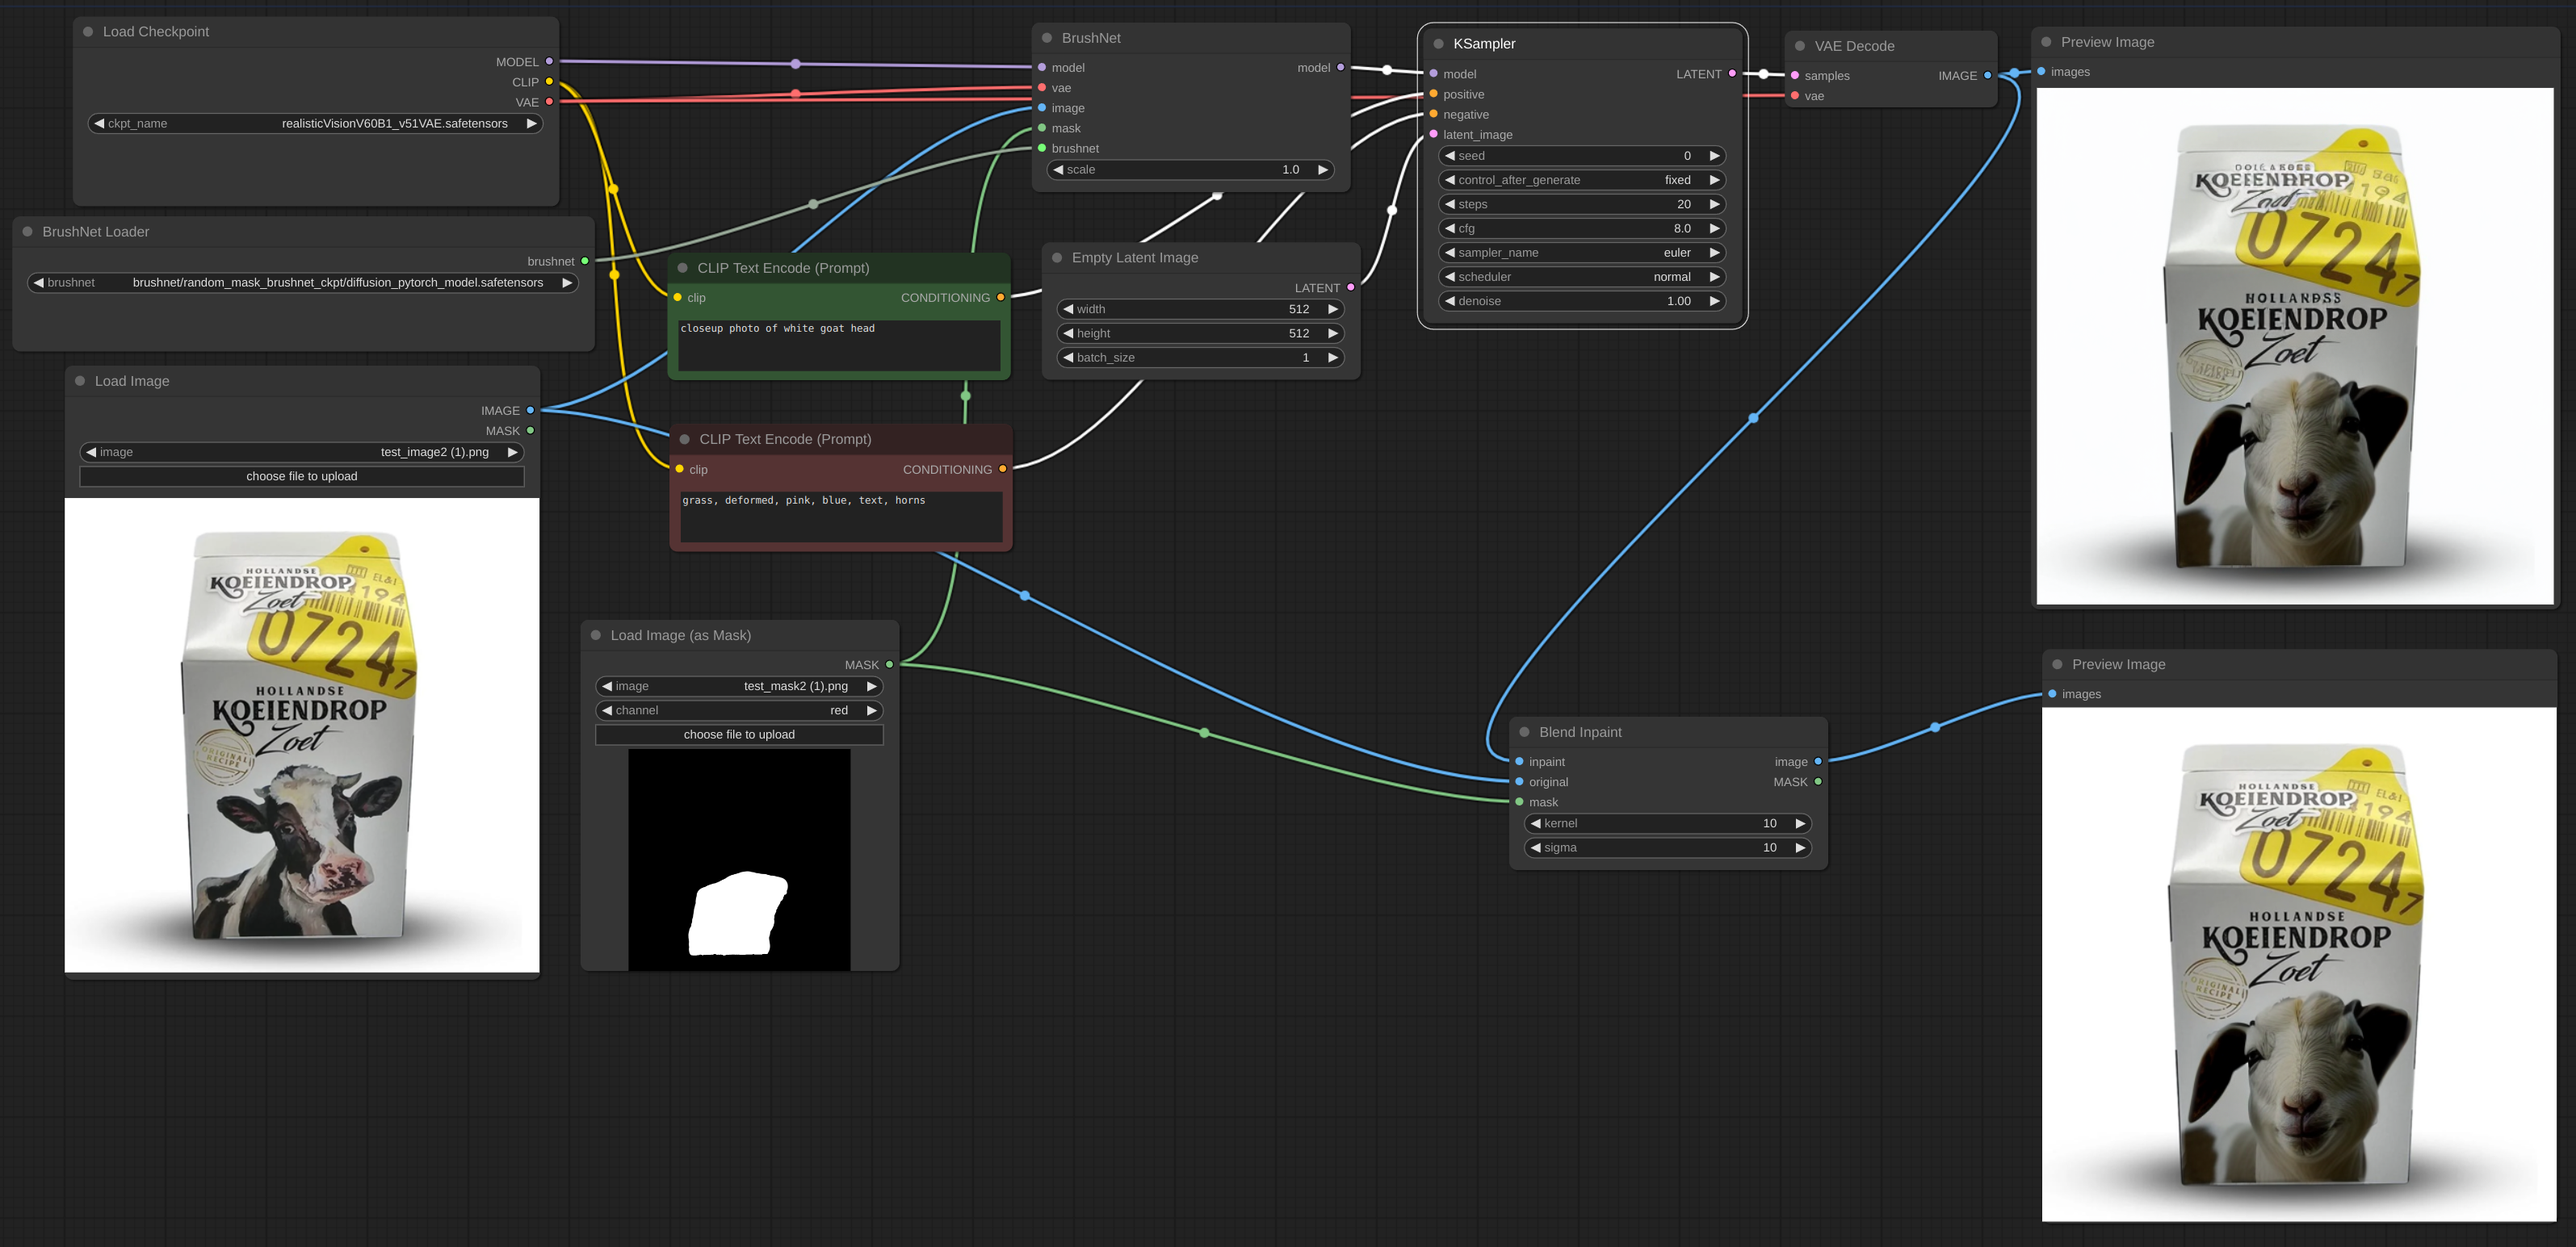
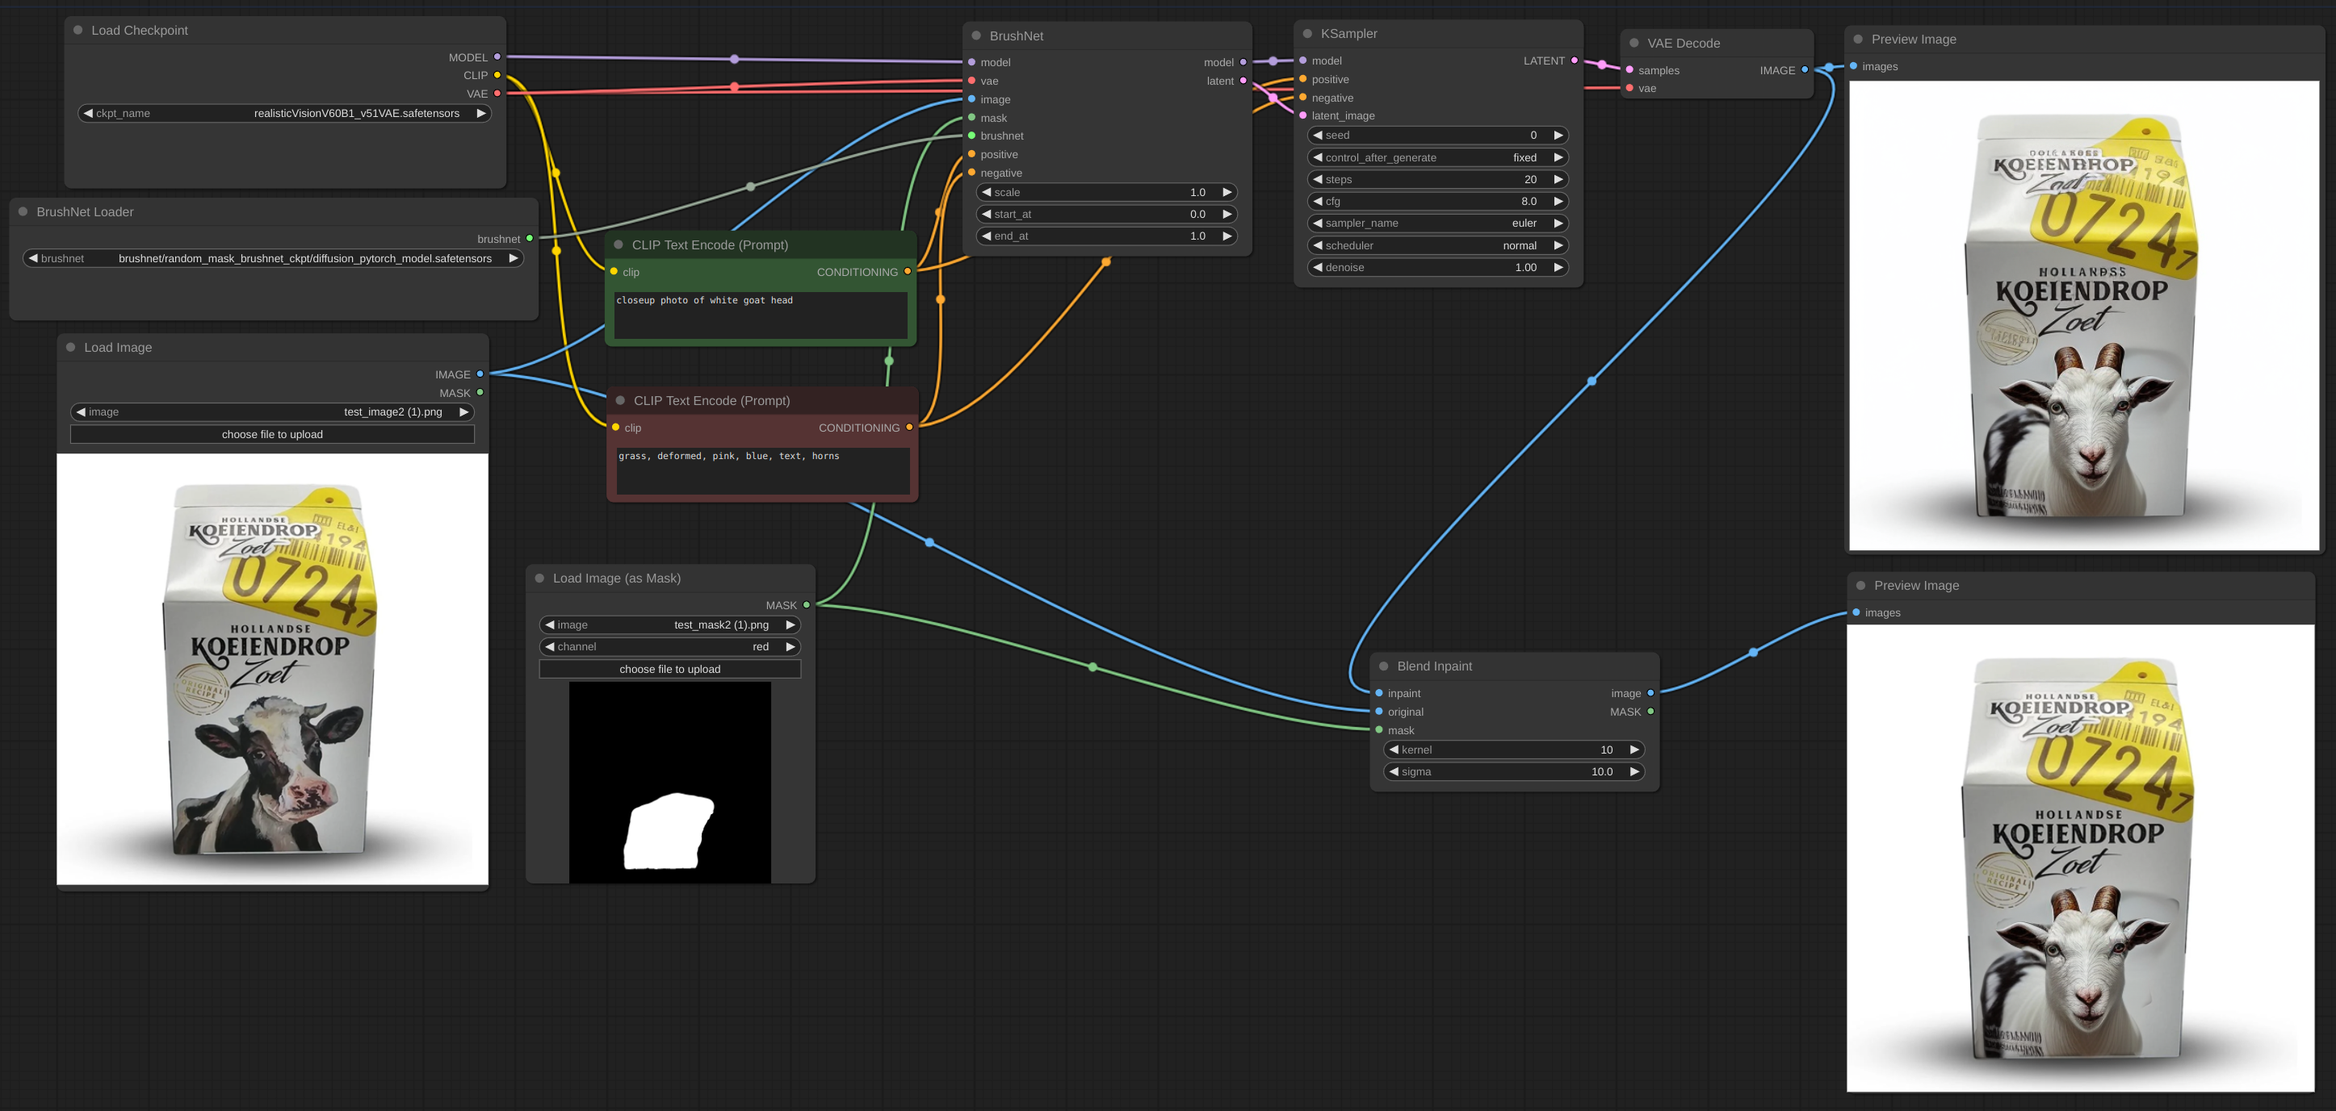
BlendInpaint result resize

diff --git a/brushnet_nodes.py b/brushnet_nodes.py
@@ -14,21 +14,10 @@ import latent_preview
 
 from accelerate import init_empty_weights, load_checkpoint_and_dispatch
 
-#import numpy as np
-#import cv2
-#from PIL import Image
-#import yaml
-#import importlib
-#from contextlib import nullcontext
-#from diffusers.loaders.single_file_utils import create_diffusers_vae_model_from_ldm
-#from diffusers.image_processor import VaeImageProcessor
-
 from .brushnet.brushnet import BrushNetModel
 
 import types
-
 from typing import Tuple
-
 import warnings
 warnings.filterwarnings("ignore", category=UserWarning, module="torch")
 warnings.filterwarnings("ignore", category=UserWarning, module="safetensors")
@@ -293,6 +282,14 @@ class BlendInpaint:
         transform = T.GaussianBlur(kernel_size=(kernel, kernel), sigma=(sigma, sigma))
         blurred_mask = transform(mask[None,None,:,:]).to(original.device).to(original.dtype)
 
+        inpaint = torch.nn.functional.interpolate(
+            inpaint, 
+            size=(
+                original.shape[1], 
+                original.shape[2],
+            )
+        )
+
         ret = []
         for result in inpaint:
             ret.append(original * (1.0 - blurred_mask[0][0][:,:,None]) + result.to(original.device) * blurred_mask[0][0][:,:,None])
@@ -392,9 +389,6 @@ def add_brushnet_patch(model, brushnet, conditioning_latents, controls, prompt_e
     to['model_patch']['brushnet_controls'] = controls
     to['model_patch']['brushnet_prompt'] = prompt_embeds
     to['model_patch']['brushnet_add_embeds'] = {"text_embeds": add_text_embeds, "time_ids": add_time_ids}
-    to['model_patch']['input_samples'] = []
-    to['model_patch']['middle_sample'] = 0
-    to['model_patch']['output_samples'] = []
 
     is_SDXL = isinstance(model.model.model_config, comfy.supported_models.SDXL)
 
